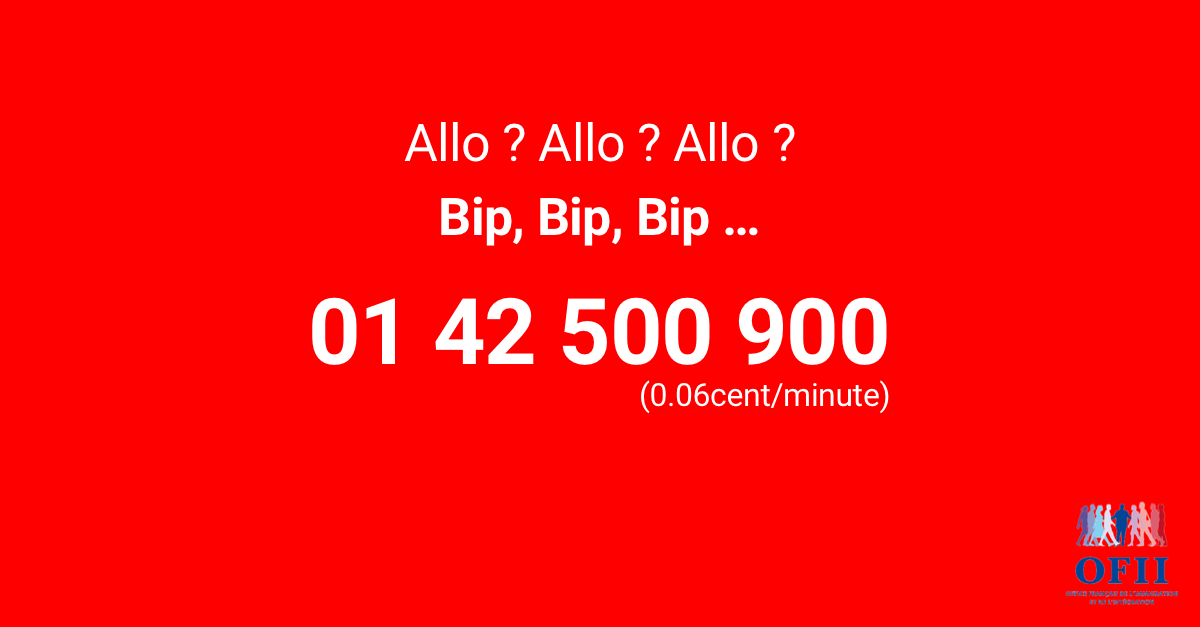
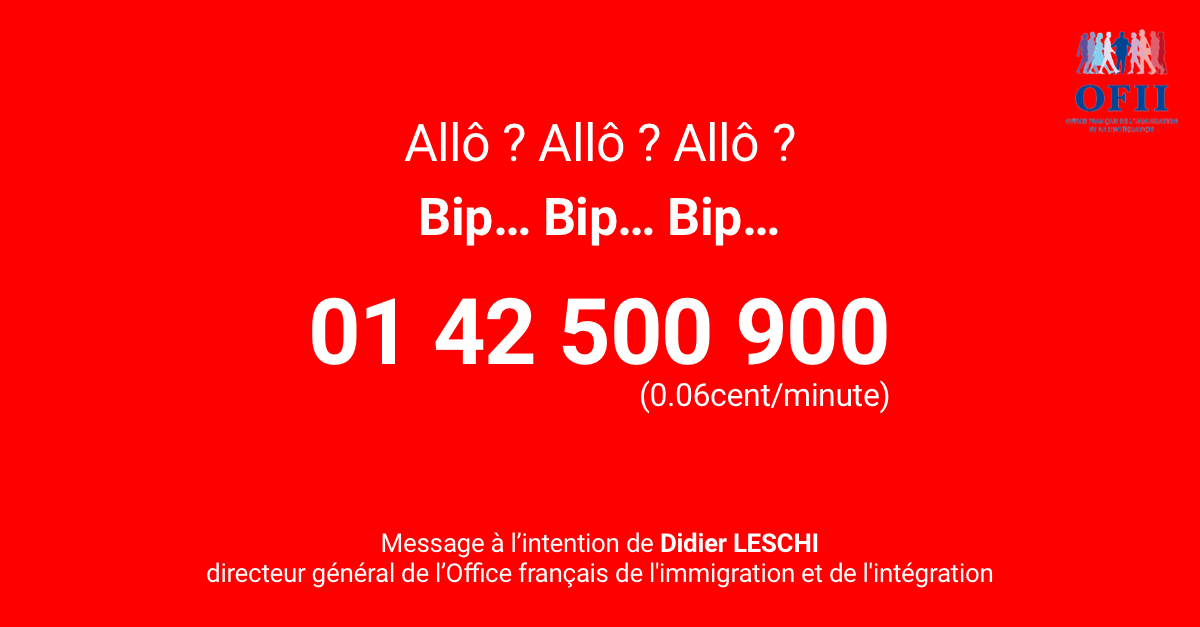
Add files via upload

diff --git a/index.html b/index.html
@@ -2,14 +2,14 @@
    "http://www.w3.org/TR/html4/strict.dtd">
 <HTML>
    <HEAD>
-      <TITLE>Allo, allo, allo !</TITLE>
+      <TITLE>Allô, allô, allô !</TITLE>
       <LINK href="style.css" rel="stylesheet" type="text/css">
       <link href="https://fonts.googleapis.com/css2?family=Roboto:wght@400;700&display=swap" rel="stylesheet">
       <link rel="shortcut icon" href="ofii-favicon.png" type="image/x-icon">
 	  <link rel="icon" href="ofii-favicon.png" type="image/x-icon">
-	  <meta property="og:url"                content="https://nikonco.github.io/ofii/" />
+	  <meta property="og:url"                content="https://plateforme-ofii.github.io/email/" />
 	<meta property="og:type"               content="article" />
-	<meta property="og:title"              content="Pour une prise en charge des demandes d’asile en Île de France" />
+	<meta property="og:title"              content="Pour l'amélioration concrète de la prise en charge des dépôts de demandes d’asile en Île de France" />
 	<meta property="og:description"        content="Lettre à l'intention de l’Office français de l'immigration et de l'intégration (OFII)" />
 	<meta property="og:image"              content="https://nikonco.github.io/ofii/share-facebook-ofii.png" />
 	<meta name="viewport" content="initial-scale = 1.0,maximum-scale = 1.0" />
@@ -19,19 +19,19 @@
    <BODY>
 	   <div id="container-out">
       <div id="container">
-	      <p id="object">OBJET: <b>Pour une prise en charge rapide des demandes d’asile en Île de France</b></p>
-	      <p id="recipient"><b>A: Didier LESCHI</b></p>
-	      <p id="recipient-cc">CC: Isabelle DELACROIX, Frédérique ORTOLA, Rémy SCHWARTZ, Nathalie HAYASHI, Guy BAYLACQ, Fabrice BLANCHARD,  Valérie GILTON, Nathalie HAYASHI</p>
+	      <p id="object">OBJET: <b>Pour l'amélioration concrète de la prise en charge des dépôts de demandes d’asile en Île de France</b></p>
+	      <p id="recipient">A: Didier LESCHI <b>(Directeur général OFII)</b></p>
+	      <p id="recipient-cc">CC: Isabelle DELACROIX <b>(Directrice générale adjointe)</b>, Frédérique ORTOLA <b>(Cheffe du cabinet)</b>, Rémy SCHWARTZ <b>(Président du Conseil d'administration)</b>, Nathalie HAYASHI <b>(Directrice de l'asile)</b>, Guy BAYLACQ <b>(Directeur du budget)</b>, Fabrice BLANCHARD <b>(Directeur des ressources humaines)</b>,  Valérie GILTON <b>(Directrice de l'accueil)</b>, Nathalie HAYASHI <b>(Directrice de l'asile)</b></p>
 	      <p id="letter">
 Mr le directeur général de l’Office français de l'immigration et de l'intégration,<br/><br/>
 
 Je me tourne vers vous aujourd’hui suite à un manquement grave et continu de vos services.<br/><br/>
 
-L’une de mes préoccupations concerne la plateforme téléphonique qu’il est nécessaire de joindre afin de pouvoir déposer une demande d’asile en Ile de France. Différents cas très biens renseignés par les associations sur le terrain nous montrent que le taux de réponse par vos services est inférieur à 5%. La communication est automatiquement coupée après 45 minutes d’attente… payantes. <br/><br/>
+L’une de mes préoccupations concerne la plateforme téléphonique qu’il est nécessaire de joindre afin de pouvoir déposer une demande d’asile en Ile de France. Différents cas très biens renseignés par les associations sur le terrain nous montrent que le taux de réponses par vos services est inférieur à 5%. La communication est automatiquement coupée après 45 minutes d’attente… payantes. <br/><br/>
 
 Cela dure depuis maintenant plus de deux ans, contribuant à des situations de détresses psychologiques et matérielles allant à l’encontre nos valeurs et engagements.<br/><br/>
 
-En raison de vos manquements, ce sont des milliers de femmes, d’hommes et d’enfants vivant quotidiennement à la rue, sans aucune ressource et avec l’impossibilité légale d’avancer. De plus est, au vue de la situation sanitaire actuelle, vous vous rendez coupable de contribuer à l’augmentation des cas de covid-19 dans l’ensemble de la société.<br/><br/>
+En raison de vos manquements, ce sont des milliers de femmes, d’hommes et d’enfants qui vivent quotidiennement à la rue, sans aucune ressource et avec l’impossibilité légale d’avancer. Qui plus est, au vue de la situation sanitaire actuelle, vous vous rendez coupable de contribuer à l’augmentation des cas de covid-19 dans l’ensemble de la société.<br/><br/>
 
 S’il est une chose de manquer de moyens, il en ai une autre de ne pas assumer ses torts et ses faiblesses. C’est pourtant seulement ainsi que nous pouvons espérer s’améliorer.<br/><br/>
 
@@ -46,26 +46,28 @@ Un citoyen concerné<br/>
 
 
 
+
 	      </p>
 	      <a></a>
       </div>
 	   </div>
       <div id="share">
-	      <a id="email" href="mailto:didier.leschi@ofii.fr?cc=isabelle.delacroix@ofii.fr;frederique.ortola@ofii.fr;nathalie.hayashi@ofii.fr;guy.baylacq@ofii.fr;fabrice.blanchard@ofii.fr;remy.schwartz@ofii.fr
-&subject=Pour%20une%20prise%20en%20charge%20des%20demandes%20d’asile%20en%20Île%20de%20France
-&body=The%20body%20of%20the%0d%0aemail">Envoyer cette lettre par email</a>
+	      <a id="email" href="mailto:didier.leschi@ofii.fr?cc=isabelle.delacroix@ofii.fr,frederique.ortola@ofii.fr,nathalie.hayashi@ofii.fr,guy.baylacq@ofii.fr,fabrice.blanchard@ofii.fr,remy.schwartz@ofii.fr,remy.schwartz@ofii.fr,valerie.gilton@ofii.fr
+&subject=Pour%20l'amélioration%20concrète%20de%20la%20prise%20en%20charge%20des%20dépôts%20de%20demandes%20d’asile%20en%20Île%20de%20France
+&body=Mr%20le%20directeur%20général%20de%20l’Office%20français%20de%20l'immigration%20et%20de%20l'intégration,%0d%0a%0d%0aJe%20me%20tourne%20vers%20vous%20aujourd’hui%20suite%20à%20un%20manquement%20grave%20et%20continu%20de%20vos%20services.%0d%0a%0d%0aL’une%20de%20mes%20préoccupations%20concerne%20la%20plateforme%20téléphonique%20qu’il%20est%20nécessaire%20de%20joindre%20afin%20de%20pouvoir%20déposer%20une%20demande%20d’asile%20en%20Ile%20de%20France.%20Différents%20cas%20très%20biens%20renseignés%20par%20les%20associations%20sur%20le%20terrain%20nous%20montrent%20que%20le%20taux%20de%20réponses%20par%20vos%20services%20est%20inférieur%20à%205%.%20La%20communication%20est%20automatiquement%20coupée%20après%2045%20minutes%20d’attente…%20payantes.%0d%0a%0d%0aCela%20dure%20depuis%20maintenant%20plus%20de%20deux%20ans,%20contribuant%20à%20des%20situations%20de%20détresses%20psychologiques%20et%20matérielles%20allant%20à%20l’encontre%20nos%20valeurs%20et%20engagements.%0d%0a%0d%0aEn%20raison%20de%20vos%20manquements,%20ce%20sont%20des%20milliers%20de%20femmes,%20d’hommes%20et%20d’enfants%20qui%20vivent%20quotidiennement%20à%20la%20rue,%20sans%20aucune%20ressource%20et%20avec%20l’impossibilité%20légale%20d’avancer.%20Qui%20plus%20est,%20au%20vue%20de%20la%20situation%20sanitaire%20actuelle,%20vous%20vous%20rendez%20coupable%20de%20contribuer%20à%20l’augmentation%20des%20cas%20de%20covid-19%20dans%20l’ensemble%20de%20la%20société.%0d%0a%0d%0aS’il%20est%20une%20chose%20de%20manquer%20de%20moyens,%20il%20en%20ai%20une%20autre%20de%20ne%20pas%20assumer%20ses%20torts%20et%20ses%20faiblesses.%20C’est%20pourtant%20seulement%20ainsi%20que%20nous%20pouvons%20espérer%20s’améliorer.%0d%0a%0d%0aJe%20ne%20m’étalerai%20pas%20sur%20les%20évolutions%20possibles%20afin%20d’améliorer%20cette%20situation,%20vous%20en%20êtes%20très%20certainement%20bien%20conscient.%0d%0a%0d%0aJe%20vous%20le%20demande%20et%20la%20justice%20également,%20faites%20mieux,%20beaucoup%20mieux.%20Une%20étape%20simple%20pour%20se%20rapprocher%20des%20exigences%20de%20votre%20mission.%0d%0a%0d%0aRestant%20à%20votre%20écoute.%0d%0a%0d%0aUn%20citoyen%20concerné%0d%0aLiberté,%20Égalité,%20Solidarité
+">Envoyer cette lettre par email</a>
     </div>
 <div id="network">
 <!-- Facebook -->
-       <a target="_blank" title="Facebook" href="http://www.facebook.com/sharer.php?u=https://nikonco.github.io/ofii/" rel="nofollow" onclick="javascript:window.open(this.href, '', 'menubar=no,toolbar=no,resizable=yes,scrollbars=yes,height=500,width=700');return false;"><img src="iconrs/facebook_icon.png" alt="Facebook" /></a>
+       <a target="_blank" title="Facebook" href="http://www.facebook.com/sharer.php?u=https://plateforme-ofii.github.io/email/" rel="nofollow" onclick="javascript:window.open(this.href, '', 'menubar=no,toolbar=no,resizable=yes,scrollbars=yes,height=500,width=700');return false;"><img src="iconrs/facebook_icon.png" alt="Facebook" /></a>
 <!-- //Facebook -->
  
 <!-- Twitter -->
-        <a target="_blank" title="Twitter" href="https://twitter.com/share?url=https://nikonco.github.io/ofii/" rel="nofollow" onclick="javascript:window.open(this.href, '', 'menubar=no,toolbar=no,resizable=yes,scrollbars=yes,height=400,width=700');return false;"><img src="iconrs/twitter_icon.png" alt="Twitter" /></a>
+        <a href="https://twitter.com/intent/tweet?text=Agissez%20maintenant%20pour%20l'amélioration%20concrète%20de%20la%20prise%20en%20charge%20des%20dépôts%20de%20demandes%20d’asile%20en%20Île%20de%20France.%20https://plateforme-ofii.github.io/email%20@OFII_France" target="_blank"><span class="fa fa-twitter"></span><img src="iconrs/twitter_icon.png" alt="Twitter" /></a>
 <!-- //Twitter -->
  
 <!-- Linkedin -->
-        <a target="_blank" title="Linkedin" href="https://www.linkedin.com/shareArticle?mini=true&amp;url=https://nikonco.github.io/ofii/" rel="nofollow" onclick="javascript:window.open(this.href, '','menubar=no,toolbar=no,resizable=yes,scrollbars=yes,height=450,width=650');return false;"><img src="iconrs/linkedin_icon.png" alt="Linkedin" /></a>
+        <a target="_blank" title="Linkedin" href="https://www.linkedin.com/shareArticle?mini=true&amp;url=https://plateforme-ofii.github.io/email/" rel="nofollow" onclick="javascript:window.open(this.href, '','menubar=no,toolbar=no,resizable=yes,scrollbars=yes,height=450,width=650');return false;"><img src="iconrs/linkedin_icon.png" alt="Linkedin" /></a>
 <!-- //Linkedin -->
 </div>
    </BODY>
